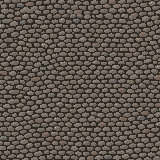
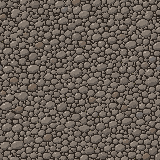
Ground reads by moonlight like the reference; street cobbles randomly packed
Measured on the real masume town against target-town.png (same scale):
square brightness median 61 -> 77 (reference 85), red-minus-blue 10 -> 24
(26); streets 40 -> 59 (59), red-minus-blue -3 -> 14 (13); grass 23 -> 29
(31). The whole frame was already as bright as the reference, so the
buildings keep the ambient light and only the ground is lifted and warmed in
src/ground.mjs's night tone (stone and dirt warmer, the square a little less,
grass slightly; water and dark joints keep the blue). The additive lamp pool
is softened (0.22 -> 0.1, multiply pool 0.75 -> 0.65) so the square no longer
blows out.

Street cobbles still read as bricks in rows (horizontal joint runs / vertical
1.30-1.42, reference 0.99-1.23). New Codex texture of randomly packed river
stones of mixed sizes, 160x160 tileable; now 1.06-1.18. Stones of a packed
texture can touch, so the street segmentation raises its threshold until no
merged clump is larger than 360 px. GROUND_VERSION 10.

diff --git a/web/lighting.js b/web/lighting.js
@@ -113,7 +113,7 @@ export class Lighting {
         const rg = r * 0.75;
         g.drawImage(this.warm, x - rg, y - rg, rg * 2, rg * 2);
         const px = r * 0.95 * f.r, py = r * 0.58 * f.r, fy = L.footY - camY - 3;
-        g.globalAlpha = Math.min(1, 0.75 * f.i);
+        g.globalAlpha = Math.min(1, 0.65 * f.i);
         g.drawImage(this.pool, x - px, fy - py, px * 2, py * 2);
       } else {
         // broad pool + hot core: strong enough to show the stone texture, ambient stays dark
@@ -155,7 +155,8 @@ export class Lighting {
       const px = L.r * 0.7 * f.r, py = L.r * 0.4 * f.r;
       const x = L.x - camX, y = L.footY - camY - 3;
       if (x + px < 0 || y + py < 0 || x - px > vw || y - py > vh) continue;
-      target.globalAlpha = 0.22 * f.i;
+      // 地面は src/ground.mjs で月明かりに読める明るさにしてあるので、足し算の光だまりは控えめに（基準の広場の明るい所 131）
+      target.globalAlpha = 0.1 * f.i;
       target.drawImage(this.poolGlow, x - px, y - py, px * 2, py * 2);
     }
     for (const L of world.lights) {
